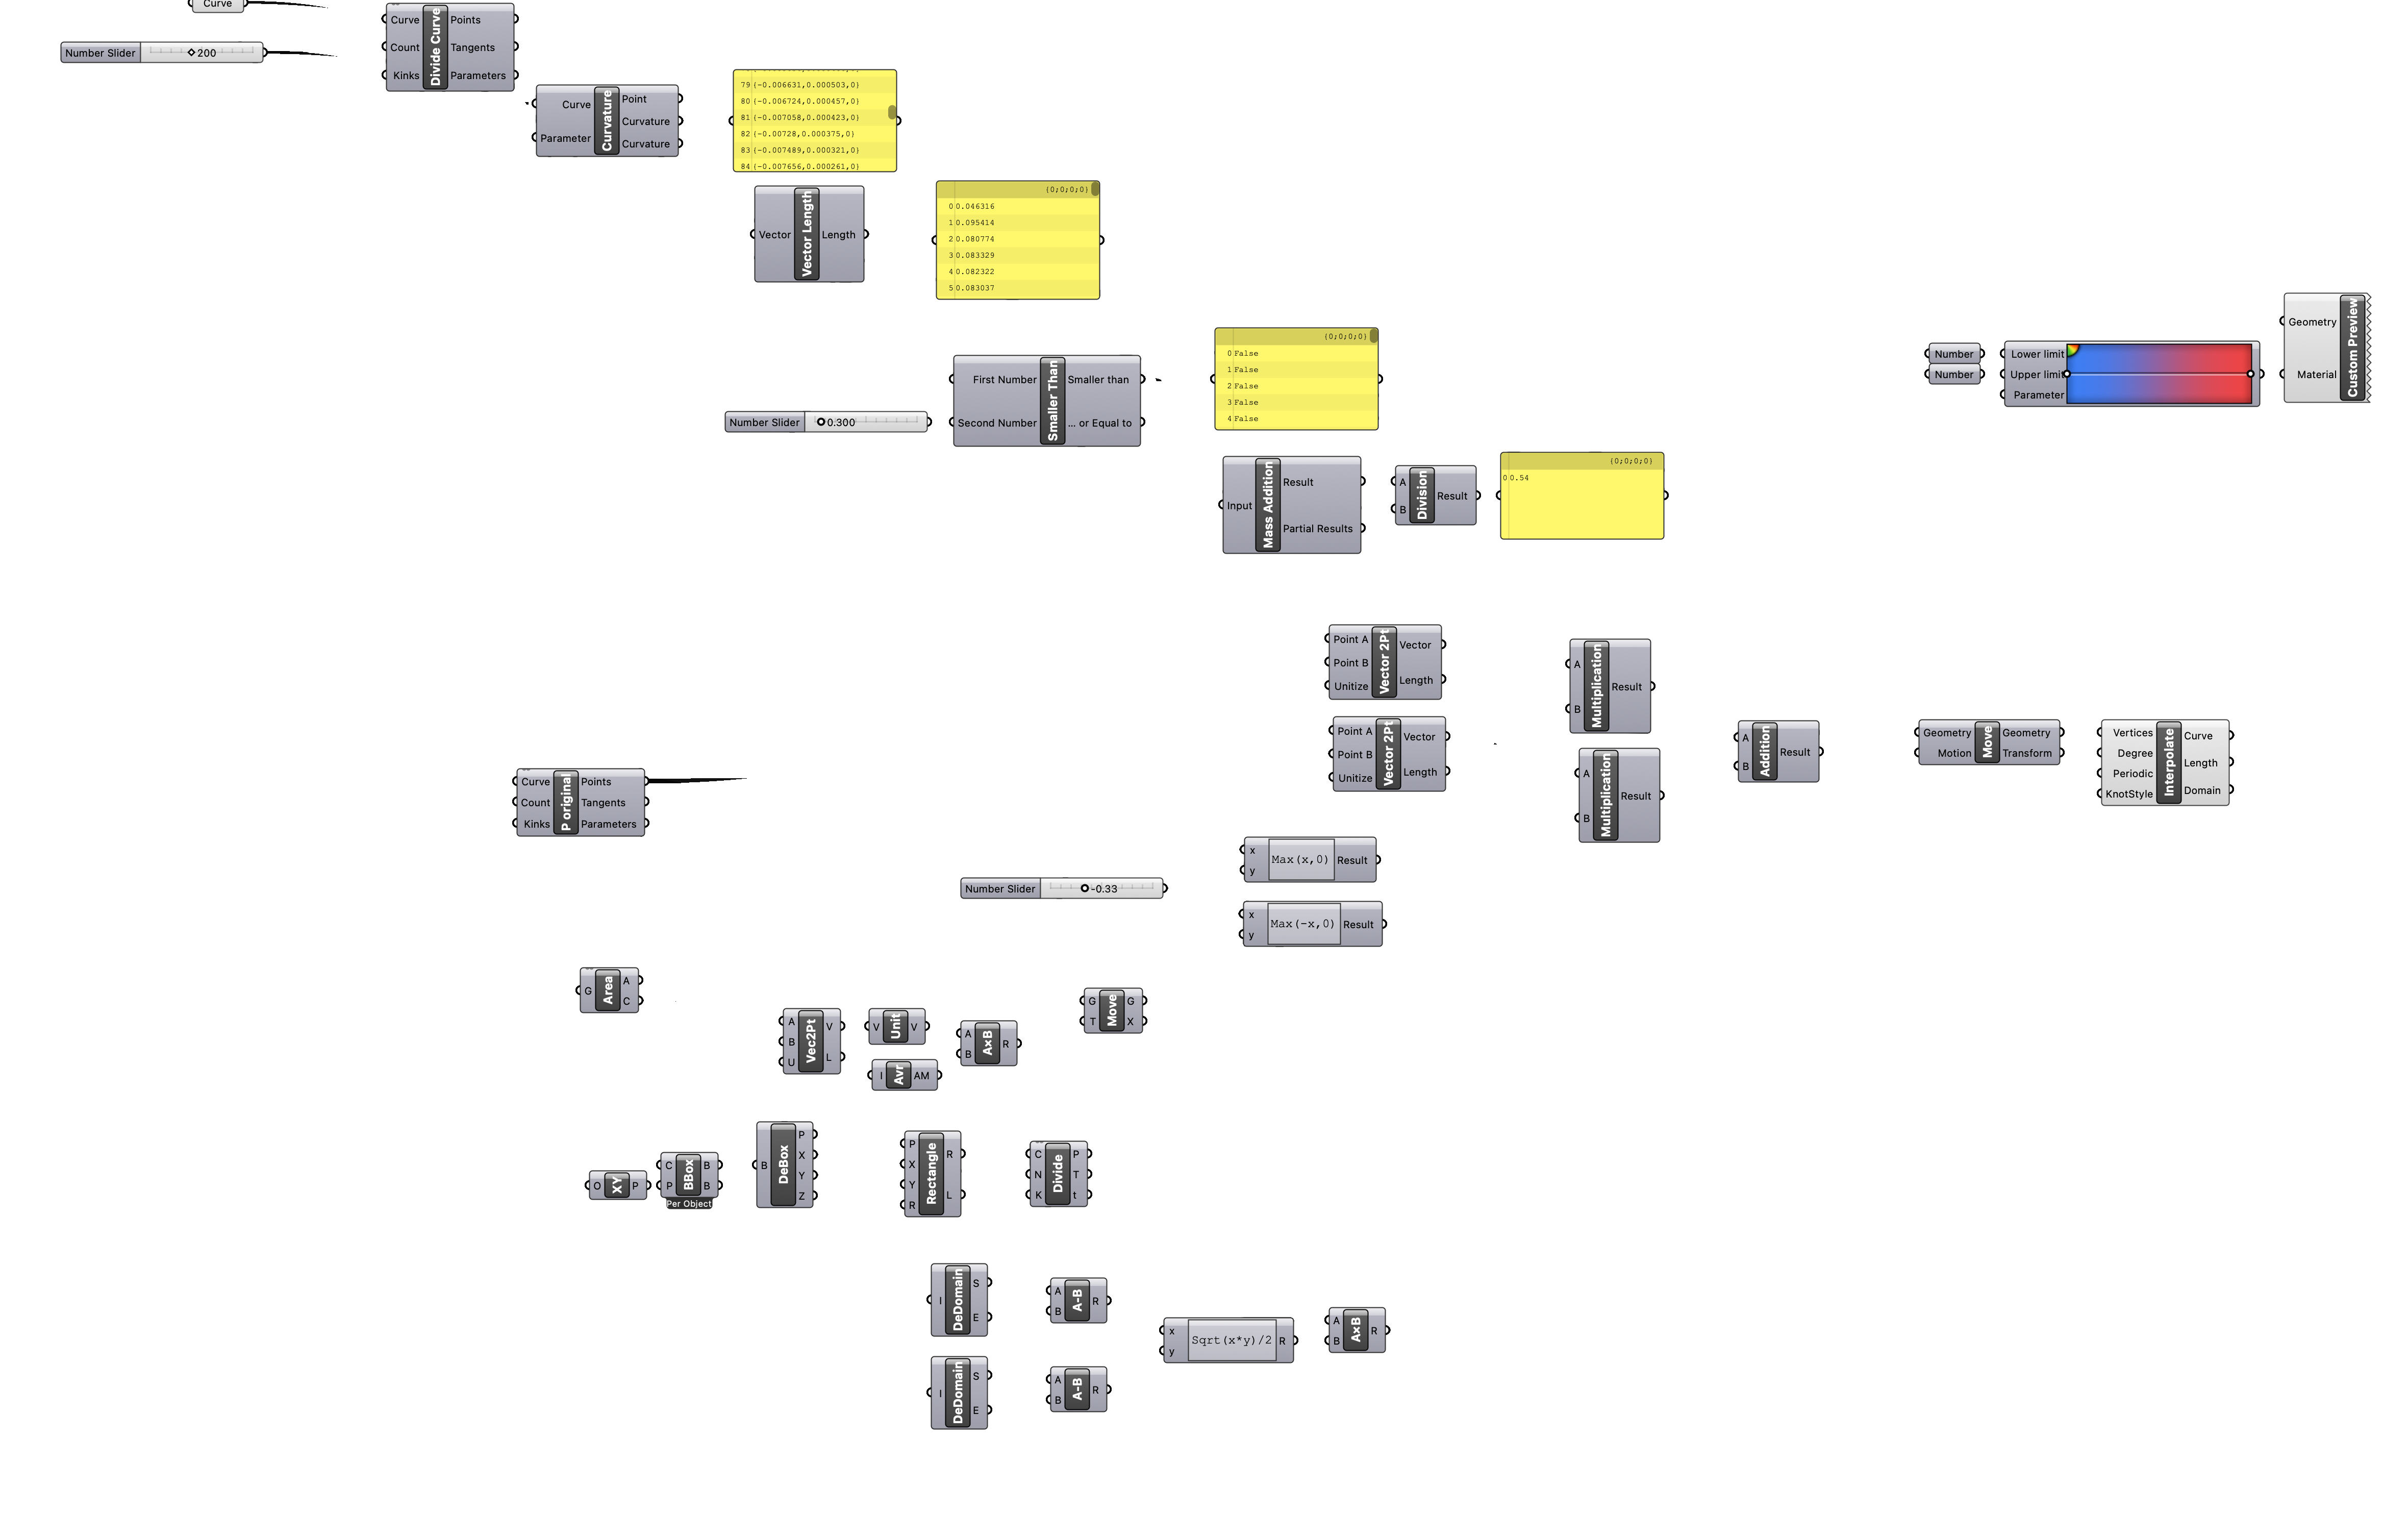
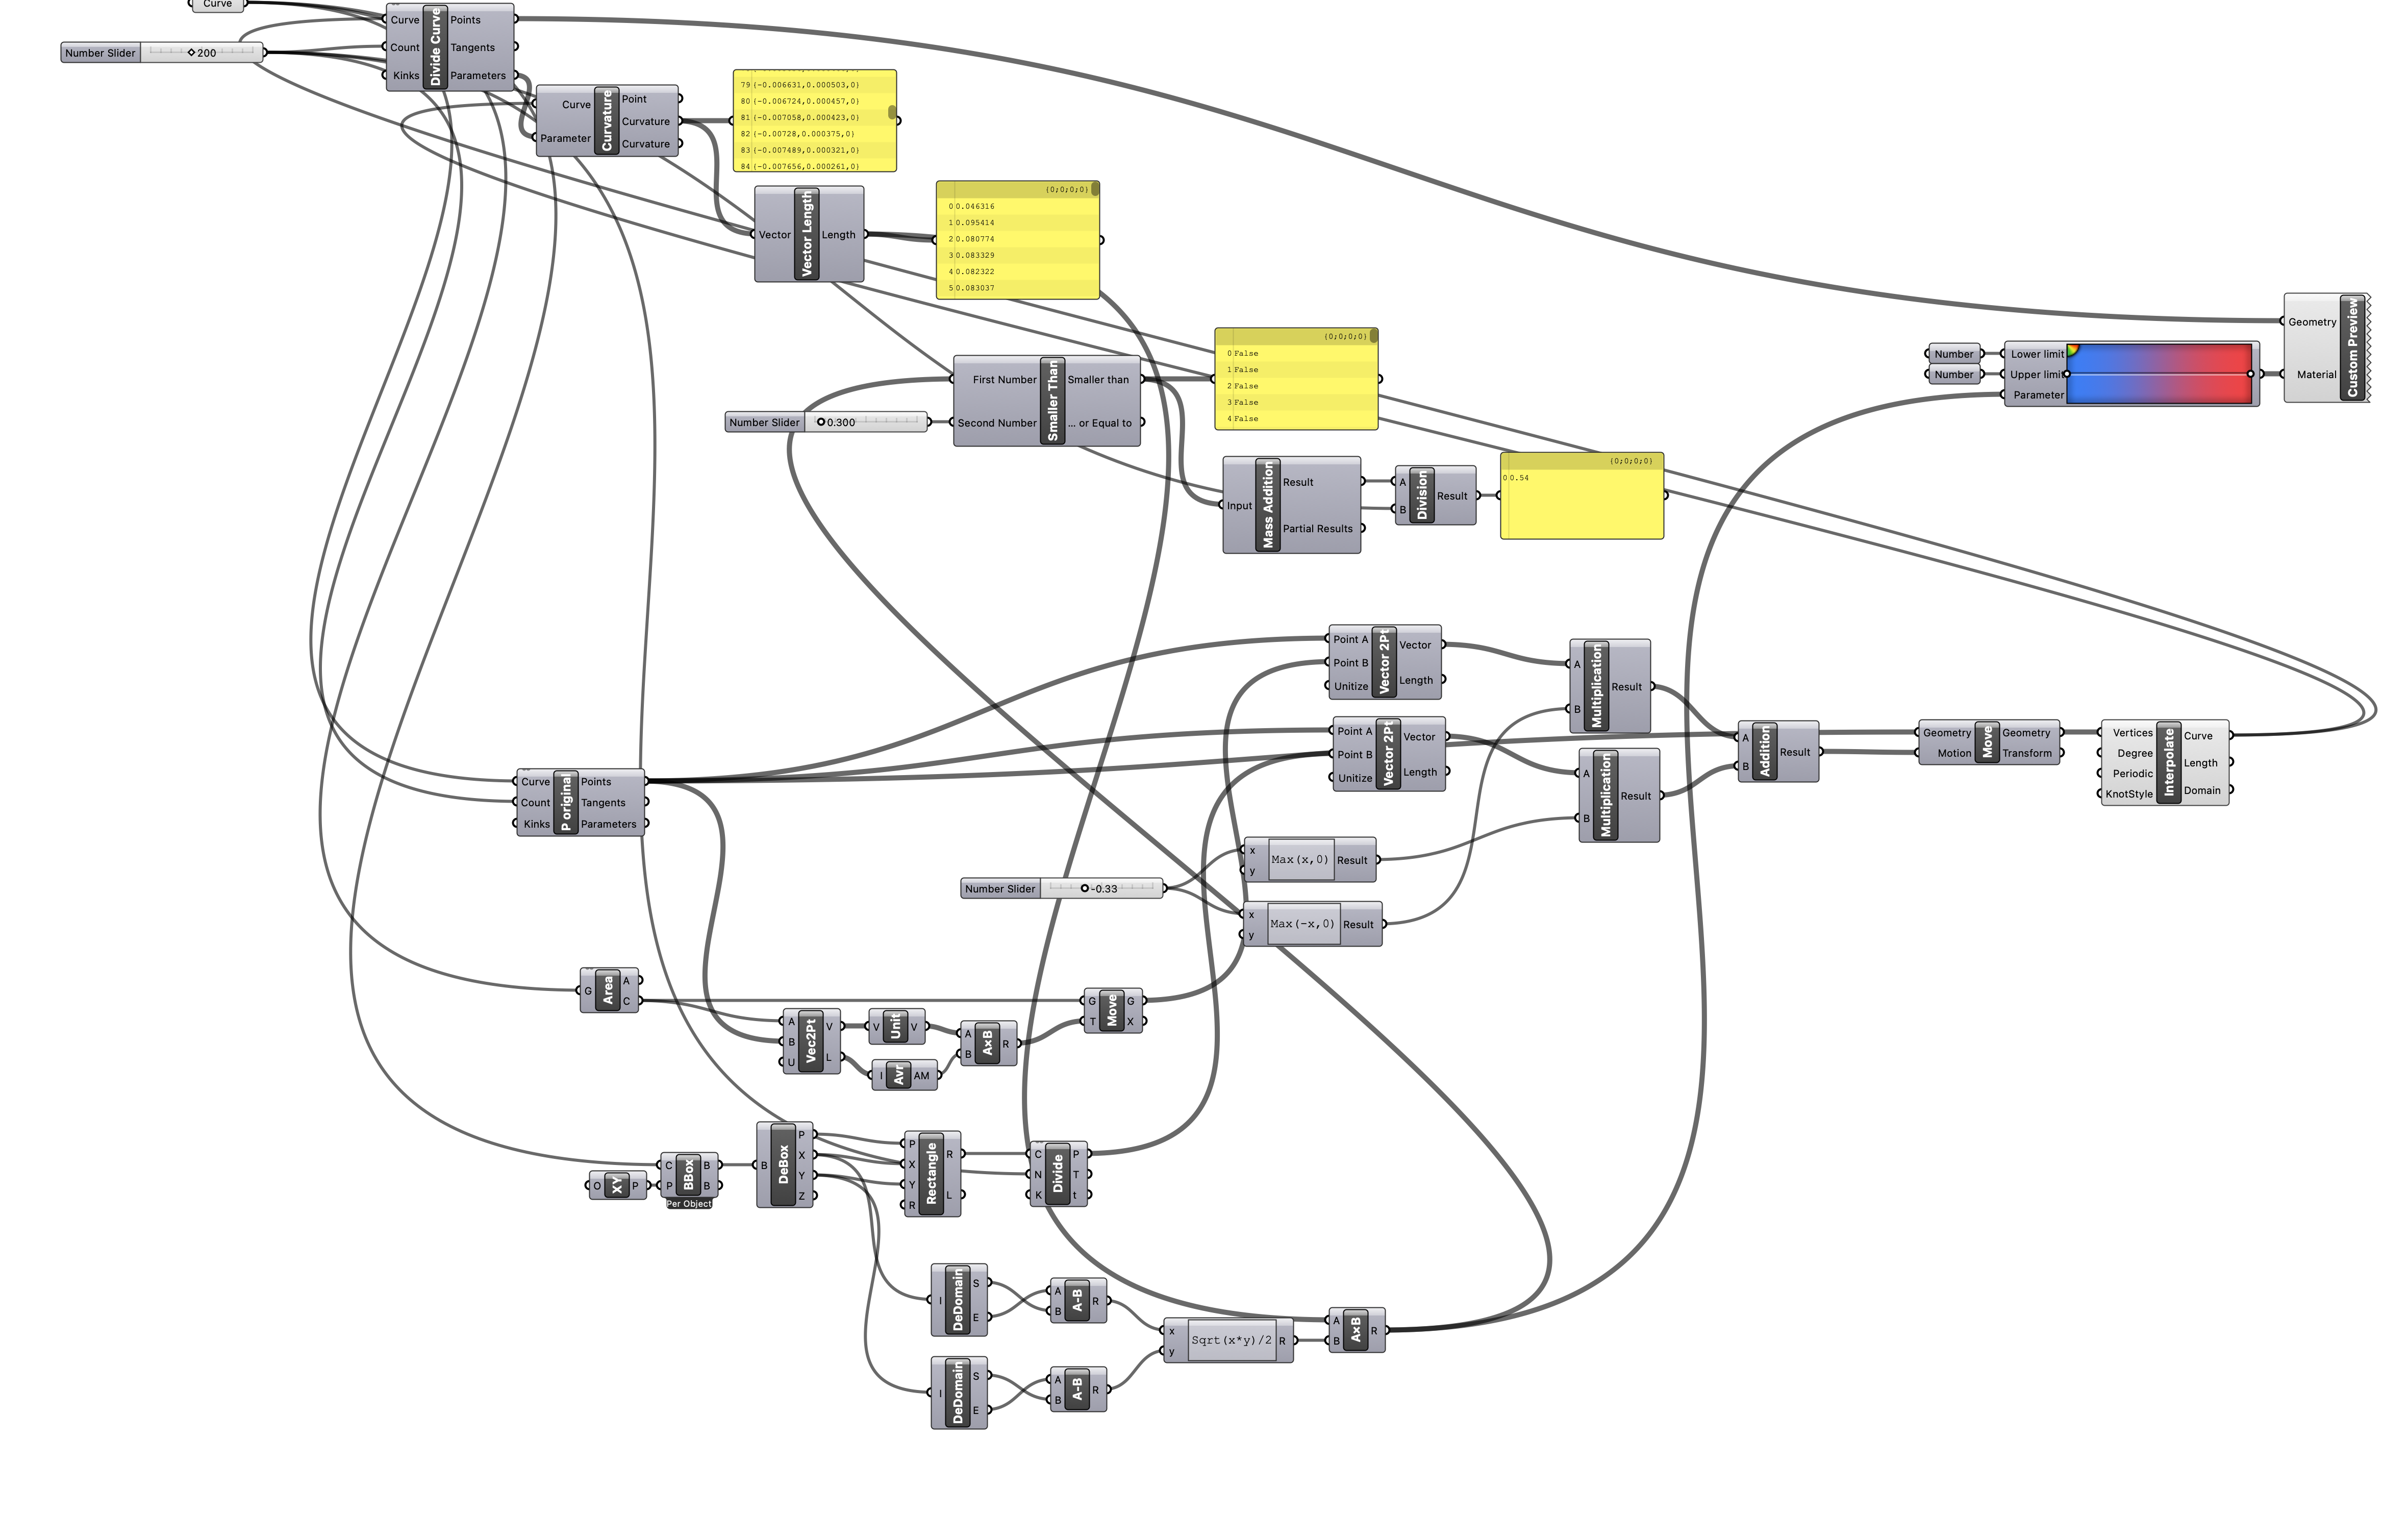
Use opaque canvas for Grasshopper image

diff --git a/index.html b/index.html
@@ -642,7 +642,7 @@ footer{display:flex;justify-content:center;align-items:center;padding:1.35rem 2r
 
     <p class="proj-section-label" data-en="Process &amp; Iteration" data-jp="試行錯誤">Process &amp; Iteration</p>
     <p class="proj-desc" data-en="To prove the method — not just use it — I built it <strong>twice</strong>: first as a web prototype, then rebuilt from scratch with native Grasshopper components. Re-implementing the same algorithm in a different paradigm is the real test of understanding it." data-jp="手法を「使う」だけでなく「理解している」ことを示すため、<strong>二度</strong>実装しました。まずWebプロトタイプとして、次にGrasshopperのネイティブコンポーネントだけで一から再構築。同じアルゴリズムを別の環境で組み直すことが、本当の理解の証明になります。">To prove the method — not just use it — I built it <strong>twice</strong>: first as a web prototype, then rebuilt from scratch with native Grasshopper components. Re-implementing the same algorithm in a different paradigm is the real test of understanding it.</p>
-    <div class="proj-visual"><img src="assets/lines-grasshopper-canvas.png" alt="Grasshopper canvas for the Straight Lines and Curves tool showing the native Rhino definition." style="width:100%;display:block;border:0.5px solid rgba(237,234,227,0.1);border-radius:4px" loading="lazy"></div>
+    <div class="proj-visual"><img src="assets/lines-grasshopper-canvas.png?v=2" alt="Grasshopper canvas for the Straight Lines and Curves tool showing the native Rhino definition." style="width:100%;display:block;border:0.5px solid rgba(237,234,227,0.1);border-radius:4px" loading="lazy"></div>
     <p class="chokusen-caption" data-en="Native Grasshopper definition for sampling a curve, measuring curvature, calculating the Linearity Index, and previewing the output in Rhino." data-jp="曲線をサンプリングし、曲率を測定し、直線度指数を計算してRhino上で出力をプレビューするGrasshopper定義。">Native Grasshopper definition for sampling a curve, measuring curvature, calculating the Linearity Index, and previewing the output in Rhino.</p>
     <ul class="proj-ideas">
       <li data-en="<strong>The curve extreme pinched into an hourglass.</strong> My first 'most curved' target rebuilt the outline with too few control points, folding a waist inward. Fixed by morphing toward a true <strong>circle</strong> instead — the honest 'pure curve'." data-jp="<strong>曲線側がくびれて砂時計型に。</strong>最初の「最も曲線的」なターゲットは制御点が少なすぎて、輪郭が内側に折れ込んでいました。代わりに真の<strong>円</strong>へ変形させて解決——これこそ「純粋な曲線」です。"><strong>The curve extreme pinched into an hourglass.</strong> My first 'most curved' target rebuilt the outline with too few control points, folding a waist inward. Fixed by morphing toward a true <strong>circle</strong> instead — the honest 'pure curve'.</li>